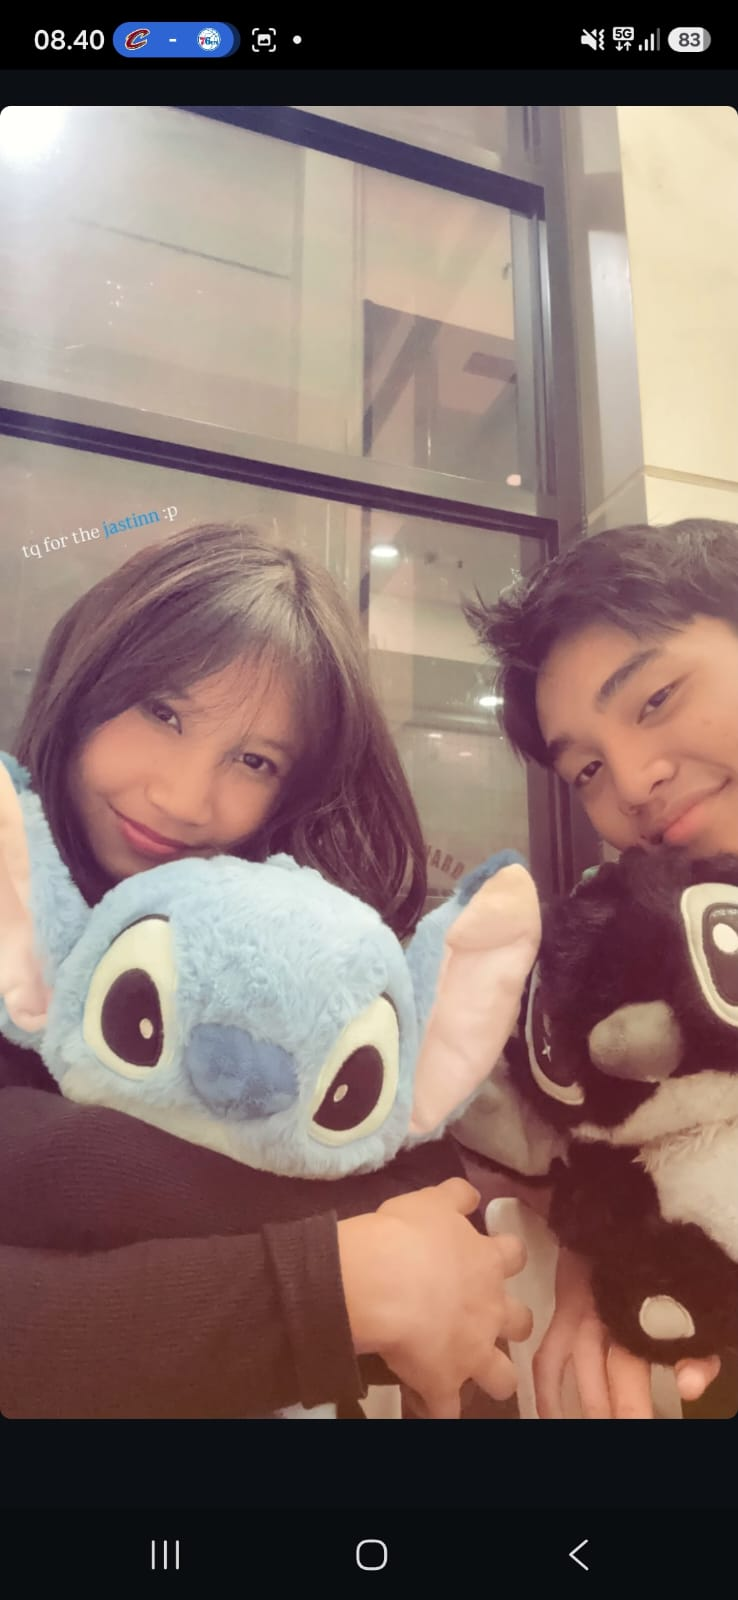
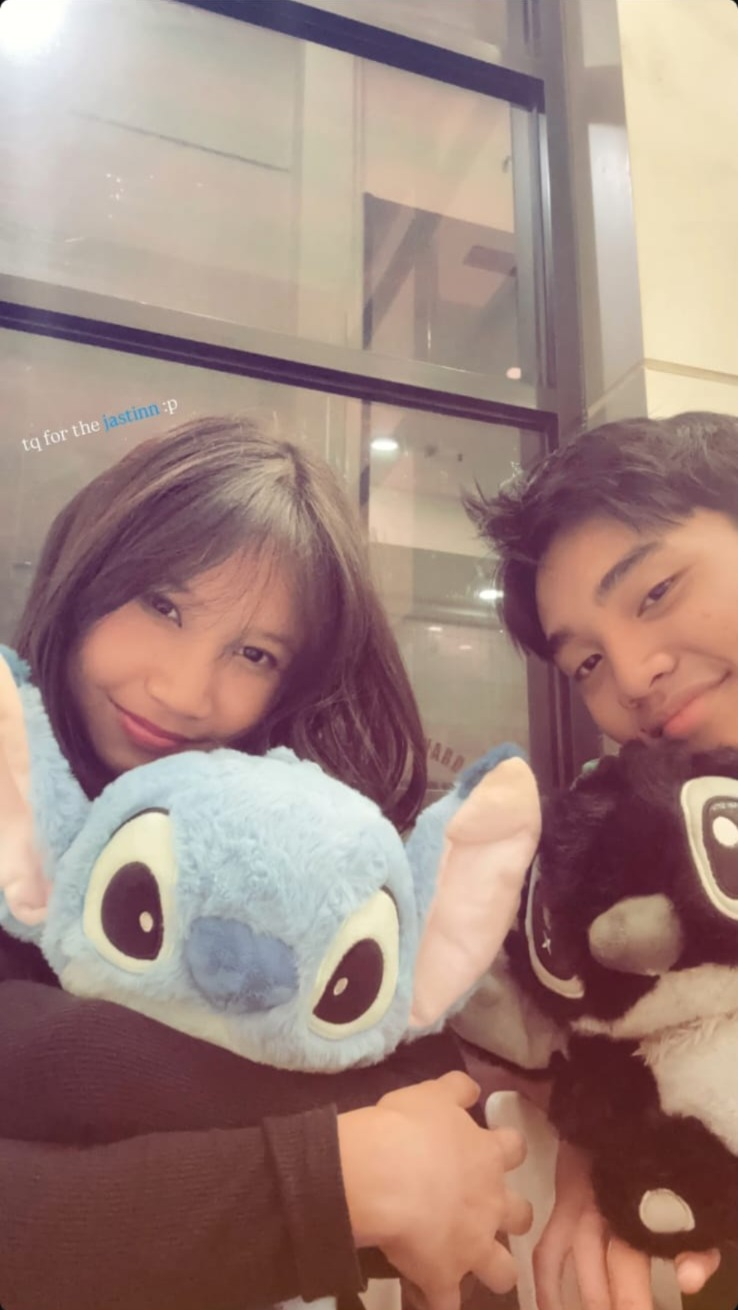
push2

diff --git a/app/globals.css b/app/globals.css
@@ -145,7 +145,7 @@ h1 em, .story-hero em { color: var(--sky-500); font-weight: 400; }
   animation: postcard 6s ease-in-out infinite;
 }
 .postcard::before { content: ''; position: absolute; inset: 12px; border: 1px dashed rgba(73,139,186,.28); }
-.postcard-photo { position: absolute; z-index: 1; top: 22px; right: 25px; width: 94px; height: 140px; padding: 5px 5px 18px; object-fit: contain; transform: rotate(4deg); border: 1px solid rgba(69,133,177,.14); background: #fff; box-shadow: 0 9px 22px rgba(34,87,122,.17); }
+.postcard-photo { position: absolute; z-index: 1; top: 22px; right: 25px; width: 94px; height: 140px; padding: 5px 5px 18px; object-fit: cover; object-position: center; transform: rotate(4deg); border: 1px solid rgba(69,133,177,.14); background: #fff; box-shadow: 0 9px 22px rgba(34,87,122,.17); }
 .postcard strong { display: block; margin-top: 120px; font-family: var(--serif); font-size: 1.8rem; font-style: italic; font-weight: 400; }
 .postcard small { color: var(--muted); line-height: 1.5; }
 .postcard-line { position: absolute; left: 38px; width: 120px; border-top: 1px solid var(--line); }.line-one { top: 51px; }.line-two { top: 65px; width: 86px; }
@@ -240,7 +240,7 @@ h1 em, .story-hero em { color: var(--sky-500); font-weight: 400; }
 .memory-card:nth-child(1), .memory-card:nth-child(2), .memory-card:nth-child(3), .memory-card:nth-child(4) { grid-column: auto; margin-top: 0; width: 100%; }.memory-card:nth-child(1) { transform: rotate(-1.2deg); }.memory-card:nth-child(2) { transform: translateY(24px) rotate(1deg); }.memory-card:nth-child(3) { transform: rotate(.8deg); }.memory-card:nth-child(4) { transform: translateY(24px) rotate(-1deg); }
 .memory-card-inner { width: 100%; height: 100%; min-height: inherit; display: block; position: relative; transform-style: preserve-3d; transition: transform .7s cubic-bezier(.2,.72,.2,1); }.memory-card.is-flipped .memory-card-inner { transform: rotateY(180deg); }
 .memory-front, .memory-back { position: absolute; inset: 0; display: flex; flex-direction: column; backface-visibility: hidden; background: #fff; box-shadow: var(--shadow); }
-.memory-front { padding: 14px 14px 22px; background: rgba(248,253,255,.96); }.memory-front img { width: 100%; height: 100%; min-height: 440px; object-fit: contain; background: #edf8fe; filter: saturate(.82) contrast(.96); }.memory-front i { padding: 14px 6px 0; color: var(--muted); font-family: var(--serif); font-size: .9rem; }
+.memory-front { padding: 14px 14px 22px; background: rgba(248,253,255,.96); }.memory-front img { width: 100%; height: 100%; min-height: 440px; object-fit: cover; object-position: center; background: #edf8fe; filter: saturate(.82) contrast(.96); }.memory-front i { padding: 14px 6px 0; color: var(--muted); font-family: var(--serif); font-size: .9rem; }
 .memory-back { align-items: center; justify-content: center; padding: 42px; transform: rotateY(180deg); color: #ecf8ff; background: #29516d; text-align: center; }.memory-back small { margin-bottom: 34px; color: var(--sky-300); letter-spacing: .15em; text-transform: uppercase; }.memory-back strong { font-family: var(--serif); font-size: clamp(1.6rem, 3vw, 2.5rem); font-weight: 400; line-height: 1.25; }.memory-back em { margin-top: 34px; color: #bce1f4; font-family: var(--serif); font-size: .82rem; font-weight: 400; }
 .tilt-left { transform: rotate(-2.2deg); }.tilt-right { transform: rotate(2deg); }
 .letter-section { padding: 140px 24px; background: transparent; }
@@ -335,7 +335,7 @@ footer { display: flex; justify-content: space-between; gap: 20px; padding: 28px
   .memory-card:nth-child(2), .memory-card:nth-child(4) { transform: translateY(8px) rotate(1deg); }
   .memory-card:nth-child(4) { transform: translateY(8px) rotate(-1deg); }
   .memory-front { padding: 10px 10px 13px; }
-  .memory-front img { min-height: 0; object-fit: contain; }
+  .memory-front img { min-height: 0; object-fit: cover; object-position: center; }
   .memory-front i { padding-top: 8px; font-size: .78rem; }
   .memory-back { padding: 24px; }
   .memory-back small { margin-bottom: 14px; }
@@ -1043,7 +1043,8 @@ body:has(#intro[hidden]) .hero-decor {
     height: 83px;
     padding: 0;
     border: 0;
-    object-fit: contain;
+    object-fit: cover;
+    object-position: center;
     transform: none;
     box-shadow: none;
   }

diff --git a/dist/styles.css b/dist/styles.css
@@ -145,7 +145,7 @@ h1 em, .story-hero em { color: var(--sky-500); font-weight: 400; }
   animation: postcard 6s ease-in-out infinite;
 }
 .postcard::before { content: ''; position: absolute; inset: 12px; border: 1px dashed rgba(73,139,186,.28); }
-.postcard-photo { position: absolute; z-index: 1; top: 22px; right: 25px; width: 94px; height: 140px; padding: 5px 5px 18px; object-fit: contain; transform: rotate(4deg); border: 1px solid rgba(69,133,177,.14); background: #fff; box-shadow: 0 9px 22px rgba(34,87,122,.17); }
+.postcard-photo { position: absolute; z-index: 1; top: 22px; right: 25px; width: 94px; height: 140px; padding: 5px 5px 18px; object-fit: cover; object-position: center; transform: rotate(4deg); border: 1px solid rgba(69,133,177,.14); background: #fff; box-shadow: 0 9px 22px rgba(34,87,122,.17); }
 .postcard strong { display: block; margin-top: 120px; font-family: var(--serif); font-size: 1.8rem; font-style: italic; font-weight: 400; }
 .postcard small { color: var(--muted); line-height: 1.5; }
 .postcard-line { position: absolute; left: 38px; width: 120px; border-top: 1px solid var(--line); }.line-one { top: 51px; }.line-two { top: 65px; width: 86px; }
@@ -240,7 +240,7 @@ h1 em, .story-hero em { color: var(--sky-500); font-weight: 400; }
 .memory-card:nth-child(1), .memory-card:nth-child(2), .memory-card:nth-child(3), .memory-card:nth-child(4) { grid-column: auto; margin-top: 0; width: 100%; }.memory-card:nth-child(1) { transform: rotate(-1.2deg); }.memory-card:nth-child(2) { transform: translateY(24px) rotate(1deg); }.memory-card:nth-child(3) { transform: rotate(.8deg); }.memory-card:nth-child(4) { transform: translateY(24px) rotate(-1deg); }
 .memory-card-inner { width: 100%; height: 100%; min-height: inherit; display: block; position: relative; transform-style: preserve-3d; transition: transform .7s cubic-bezier(.2,.72,.2,1); }.memory-card.is-flipped .memory-card-inner { transform: rotateY(180deg); }
 .memory-front, .memory-back { position: absolute; inset: 0; display: flex; flex-direction: column; backface-visibility: hidden; background: #fff; box-shadow: var(--shadow); }
-.memory-front { padding: 14px 14px 22px; background: rgba(248,253,255,.96); }.memory-front img { width: 100%; height: 100%; min-height: 440px; object-fit: contain; background: #edf8fe; filter: saturate(.82) contrast(.96); }.memory-front i { padding: 14px 6px 0; color: var(--muted); font-family: var(--serif); font-size: .9rem; }
+.memory-front { padding: 14px 14px 22px; background: rgba(248,253,255,.96); }.memory-front img { width: 100%; height: 100%; min-height: 440px; object-fit: cover; object-position: center; background: #edf8fe; filter: saturate(.82) contrast(.96); }.memory-front i { padding: 14px 6px 0; color: var(--muted); font-family: var(--serif); font-size: .9rem; }
 .memory-back { align-items: center; justify-content: center; padding: 42px; transform: rotateY(180deg); color: #ecf8ff; background: #29516d; text-align: center; }.memory-back small { margin-bottom: 34px; color: var(--sky-300); letter-spacing: .15em; text-transform: uppercase; }.memory-back strong { font-family: var(--serif); font-size: clamp(1.6rem, 3vw, 2.5rem); font-weight: 400; line-height: 1.25; }.memory-back em { margin-top: 34px; color: #bce1f4; font-family: var(--serif); font-size: .82rem; font-weight: 400; }
 .tilt-left { transform: rotate(-2.2deg); }.tilt-right { transform: rotate(2deg); }
 .letter-section { padding: 140px 24px; background: transparent; }
@@ -335,7 +335,7 @@ footer { display: flex; justify-content: space-between; gap: 20px; padding: 28px
   .memory-card:nth-child(2), .memory-card:nth-child(4) { transform: translateY(8px) rotate(1deg); }
   .memory-card:nth-child(4) { transform: translateY(8px) rotate(-1deg); }
   .memory-front { padding: 10px 10px 13px; }
-  .memory-front img { min-height: 0; object-fit: contain; }
+  .memory-front img { min-height: 0; object-fit: cover; object-position: center; }
   .memory-front i { padding-top: 8px; font-size: .78rem; }
   .memory-back { padding: 24px; }
   .memory-back small { margin-bottom: 14px; }
